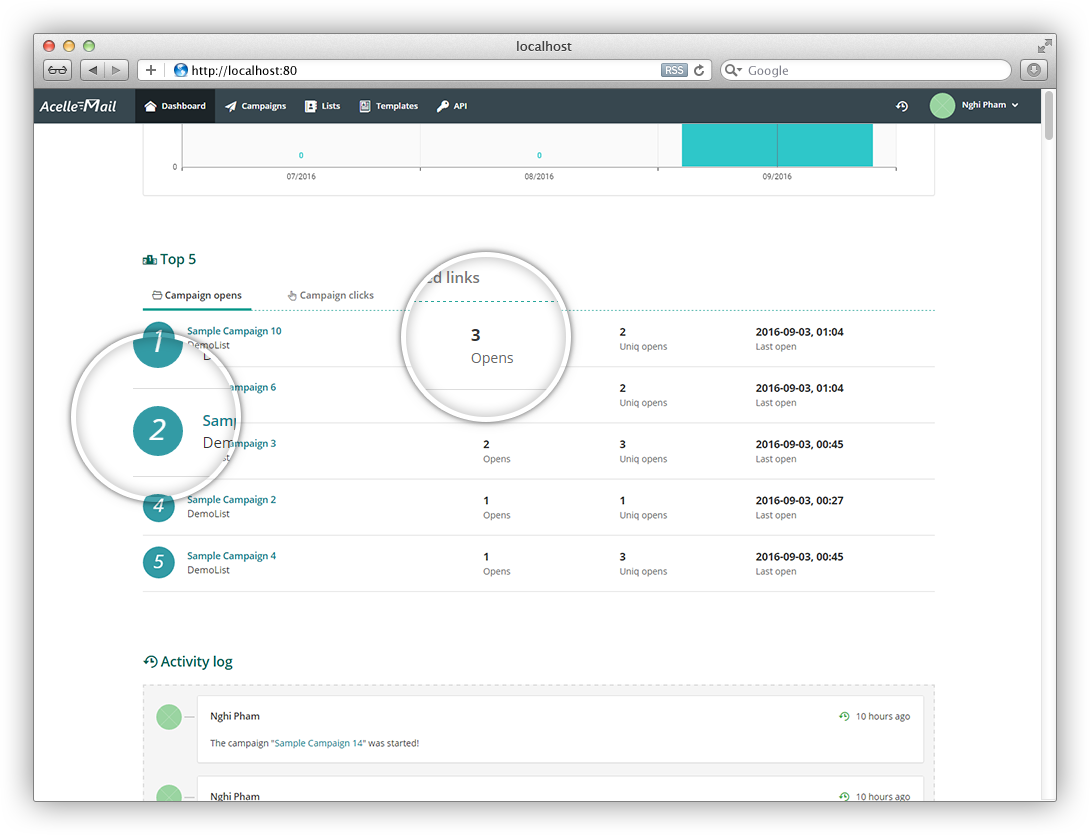
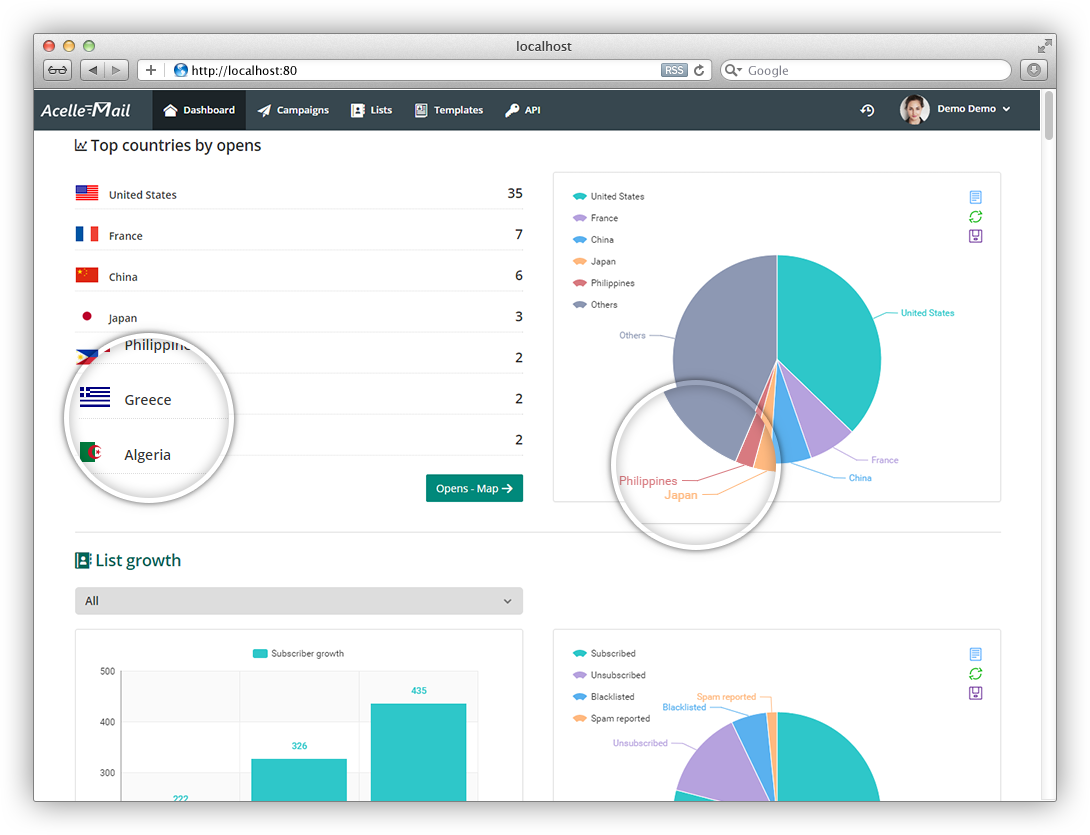
update demo page

diff --git a/resources/views/demo.blade.php b/resources/views/demo.blade.php
@@ -3,7 +3,7 @@
 @section('title', trans('messages.demo'))
 
 @section('content')
-    
+
                 <style>
                     .demo_pic {
                         opacity: 0.85;
@@ -12,33 +12,33 @@
                         opacity: 1;
                     }
                 </style>
-    
+
                 <div class="text-center login-header" style="margin-bottom: 10px">
                     <a class="main-logo-big" href="{{ action('HomeController@index') }}">
                         <img src="{{ URL::asset('images/logo_big.png') }}" alt="">
                     </a>
                     <h3 class="text-center text-muted2" style="color: #aaa; margin-left: -20px">{{ trans('messages.demo') }}</h3>
                 </div>
-    
+
                 <div class="row">
                     <div class="col-md-1">
-                        
+
                     </div>
                     <div class="col-md-5">
                         <h3 class="mb-0 text-center">{{ trans("messages.frontend") }}</h3>
-                        <a target="_blank" class="demo_pic" href="{{ action("HomeController@index") }}">
+                        <a target="_blank" class="demo_pic" href="{{ action("Controller@demoGo", ['view' => 'frontend']) }}">
                             <img style="max-width: 100%" src="{{ url("/images/demo_frontend.png") }}" />
                         </a>
                     </div>
                     <div class="col-md-5">
                         <h3 class="mb-0 text-center">{{ trans("messages.backend") }}</h3>
-                        <a target="_blank" class="demo_pic" href="{{ action("Admin\HomeController@index") }}">
+                        <a target="_blank" class="demo_pic" href="{{ action("Controller@demoGo", ['view' => 'backend']) }}">
                             <img style="max-width: 100%" src="{{ url("/images/demo_backend.png") }}" />
                         </a>
                     </div>
                     <div class="col-md-1">
-                        
+
                     </div>
                 </div>
-    
+
 @endsection

diff --git a/app/Http/Controllers/Controller.php b/app/Http/Controllers/Controller.php
@@ -2,6 +2,7 @@
 
 namespace Acelle\Http\Controllers;
 
+use Illuminate\Http\Request;
 use Illuminate\Foundation\Bus\DispatchesJobs;
 use Illuminate\Routing\Controller as BaseController;
 use Illuminate\Foundation\Validation\ValidatesRequests;
@@ -67,6 +68,24 @@ class Controller extends BaseController
     public function demo()
     {
         return view('demo');
+    }
+
+    /**
+     * Go to demo admin/campaign page.
+     *
+     * @return \Illuminate\Http\Response
+     */
+    public function demoGo(Request $request)
+    {
+        \Auth::logout();
+
+        if ($request->view == 'backend') {
+            session()->set('demo', 'backend');
+            return redirect()->action('Admin\HomeController@index');
+        } else {
+            session()->set('demo', 'frontend');
+            return redirect()->action('HomeController@index');
+        }
     }
 
     /**

diff --git a/app/Model/User.php b/app/Model/User.php
@@ -81,10 +81,10 @@ class User extends Authenticatable
             $lines = explode("\n", $content);
             if (count($lines) > 1) {
                 $demo = session()->get('demo');
-                if (!isset($demo) || $demo == 'admin') {
+                if (!isset($demo) || $demo == 'backend') {
                     return ['email' => $lines[0], 'password' => $lines[1]];
                 } else {
-                    return ['email' => $lines[0], 'password' => $lines[1]];
+                    return ['email' => $lines[2], 'password' => $lines[3]];
                 }
             }
         }

diff --git a/app/Http/routes.php b/app/Http/routes.php
@@ -76,6 +76,7 @@ Route::group(['middleware' => ['not_logged_in']], function () {
     Route::get('/offline', 'Controller@offline');
     Route::get('/not-authorized', 'Controller@notAuthorized');
     Route::get('/demo', 'Controller@demo');
+    Route::get('/demo/go/{view}', 'Controller@demoGo');
     Route::get('/autologin/{api_token}', 'Controller@autoLogin');
     Route::get('/reload/cache', 'Controller@reloadCache');
     Route::get('/migrate/run', 'Controller@runMigration');

diff --git a/app/Http/Controllers/Admin/AdminController.php b/app/Http/Controllers/Admin/AdminController.php
@@ -396,7 +396,6 @@ class AdminController extends Controller
      */
     public function loginBack(Request $request)
     {
-        echo "ddd";
         $id = \Session::pull('orig_admin_id');
         $orig_user = \Acelle\Model\User::findByUid($id);
 
